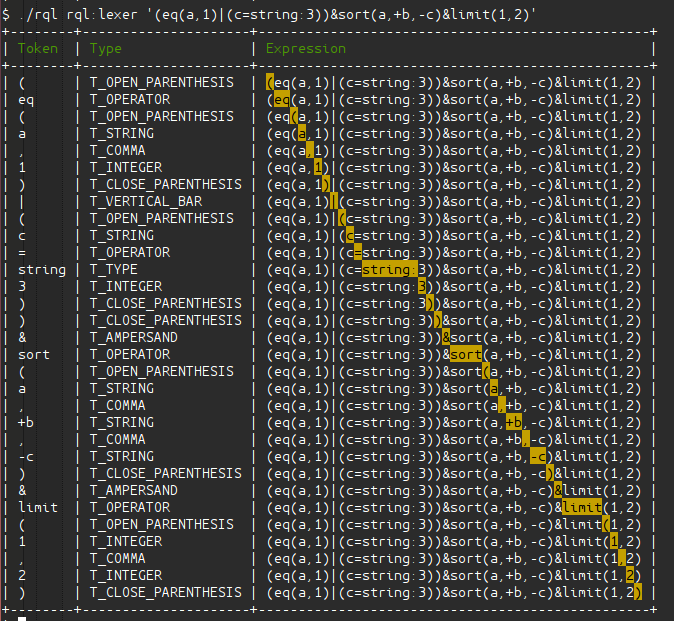
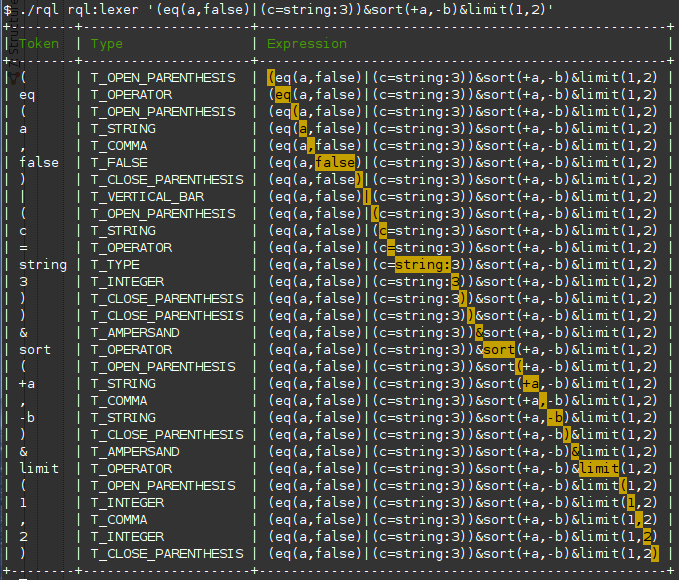
Update README.

diff --git a/README.md b/README.md
@@ -24,7 +24,7 @@ Usage
 ### Lexer command ###
 
 ```
-./vendor/bin/rql rql:lexer '(eq(a,false)|(c=string:3))&sort(a,+b,-c)&limit(1,2)'
+./vendor/bin/rql rql:lexer '(eq(a,false)|(c=string:3))&sort(+a,-b)&limit(1,2)'
 ```
 
 ![alt tag](https://raw.githubusercontent.com/mrix/rql-command/master/resources/example-lexer.png)
@@ -33,7 +33,7 @@ Usage
 ### Parser command ###
 
 ```
-./vendor/bin/rql rql:parser '(eq(a,false)|(c=string:3)|(d=in=(4,5)&not(e=6.0))|f>2015-04-19)&like(g,a*ab%2Ac?def)&sort(a,+b,-c)&limit(1,2)'
+./vendor/bin/rql rql:parser '(eq(a,false)|(c=string:3)|(d=in=(4,5)&not(e=6.0))|f>2015-04-19)&like(g,a*ab%2Ac?def)&sort(+a,-b)&limit(1,2)'
 ```
 
 ![alt tag](https://raw.githubusercontent.com/mrix/rql-command/master/resources/example-parser.png)
